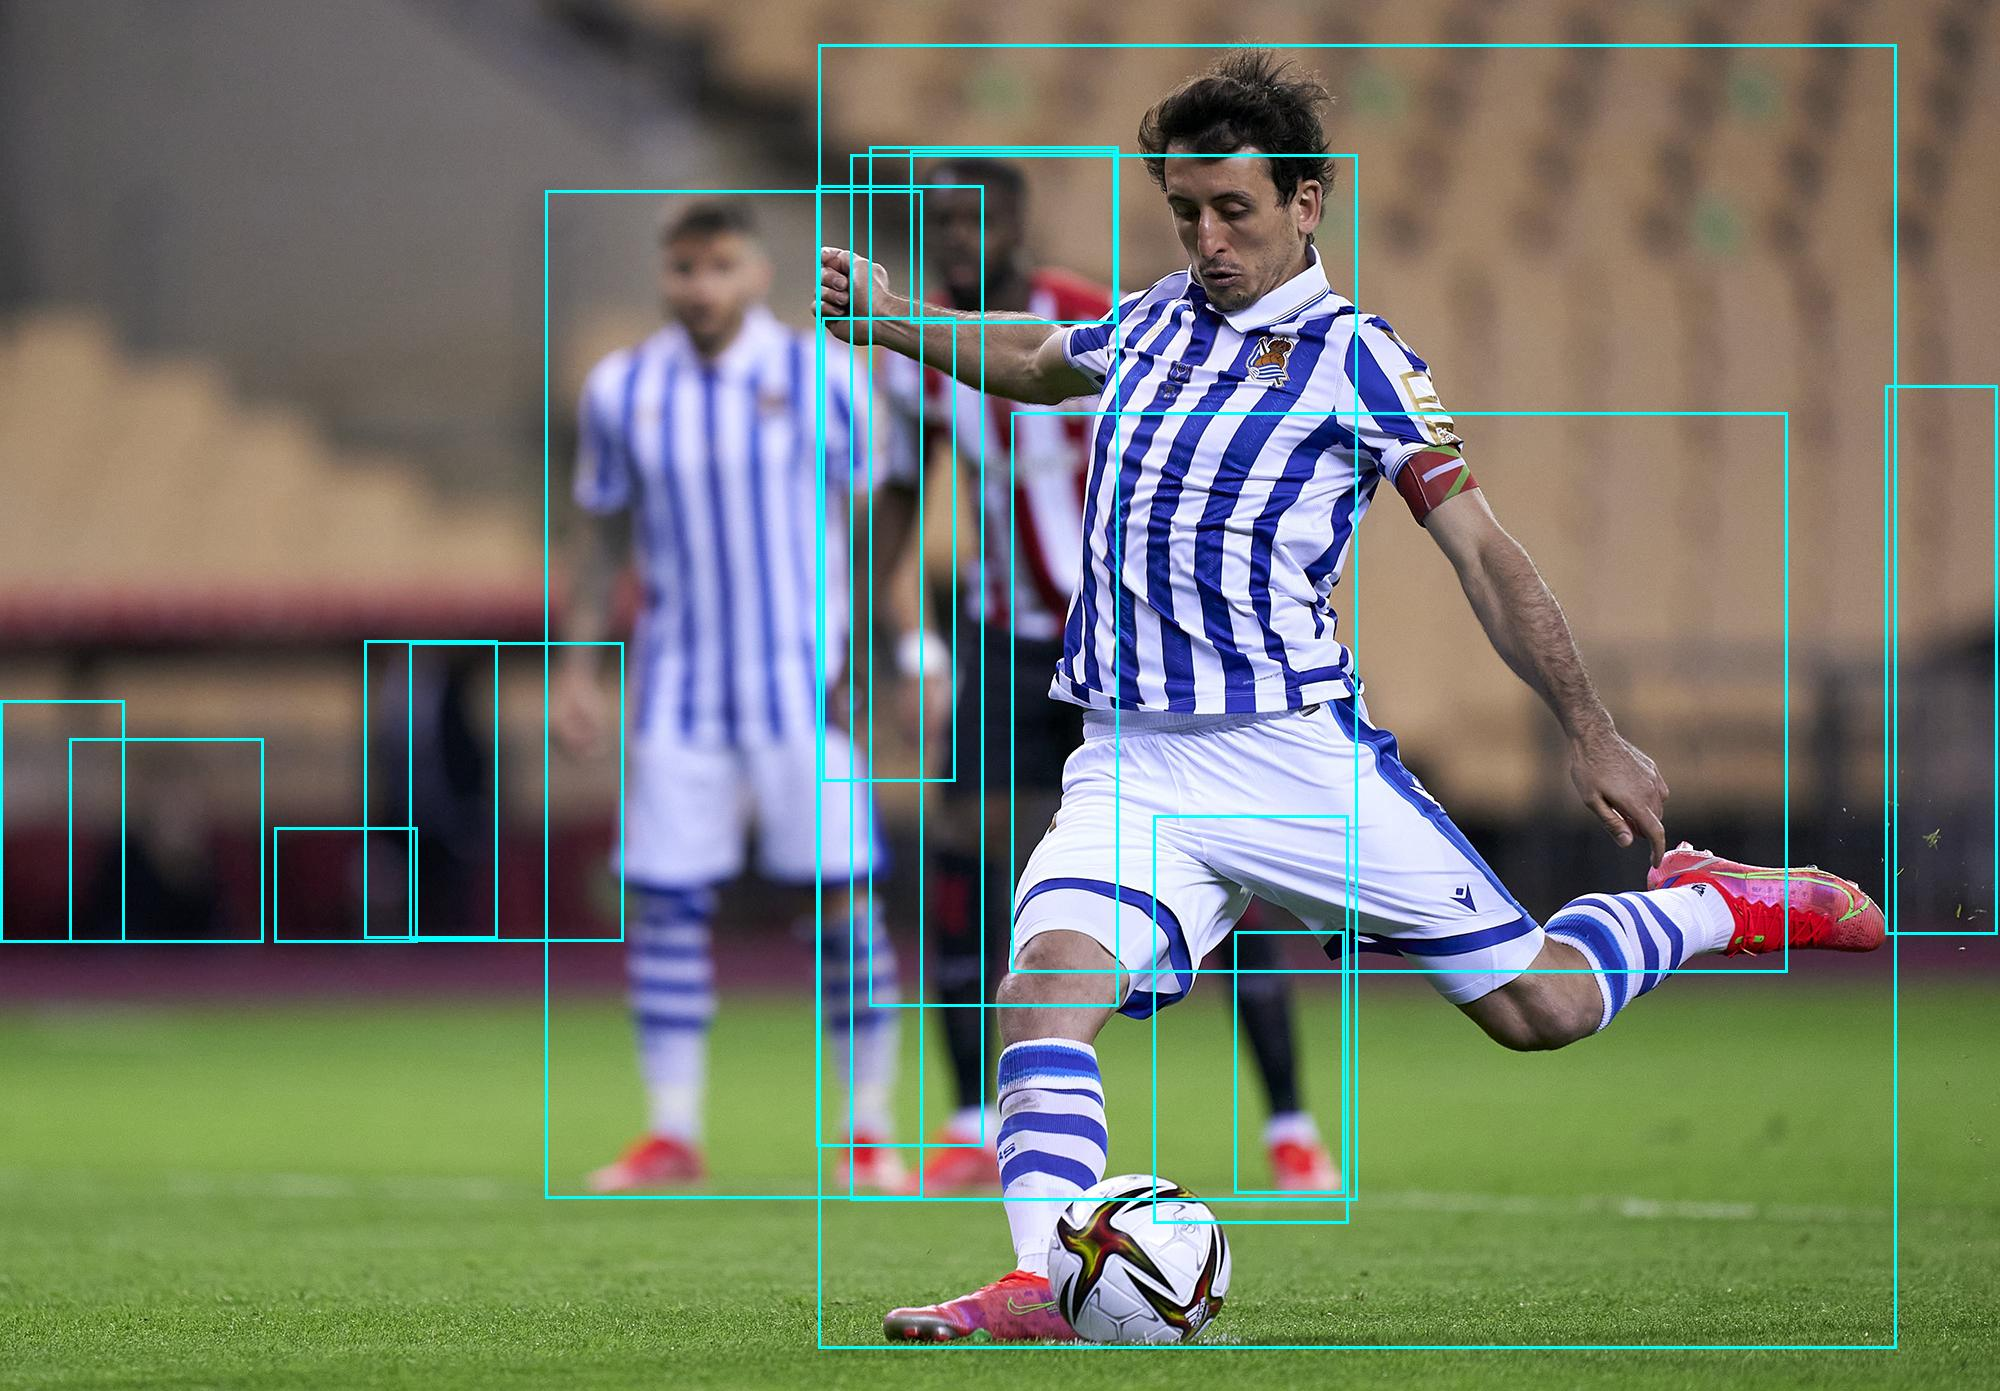
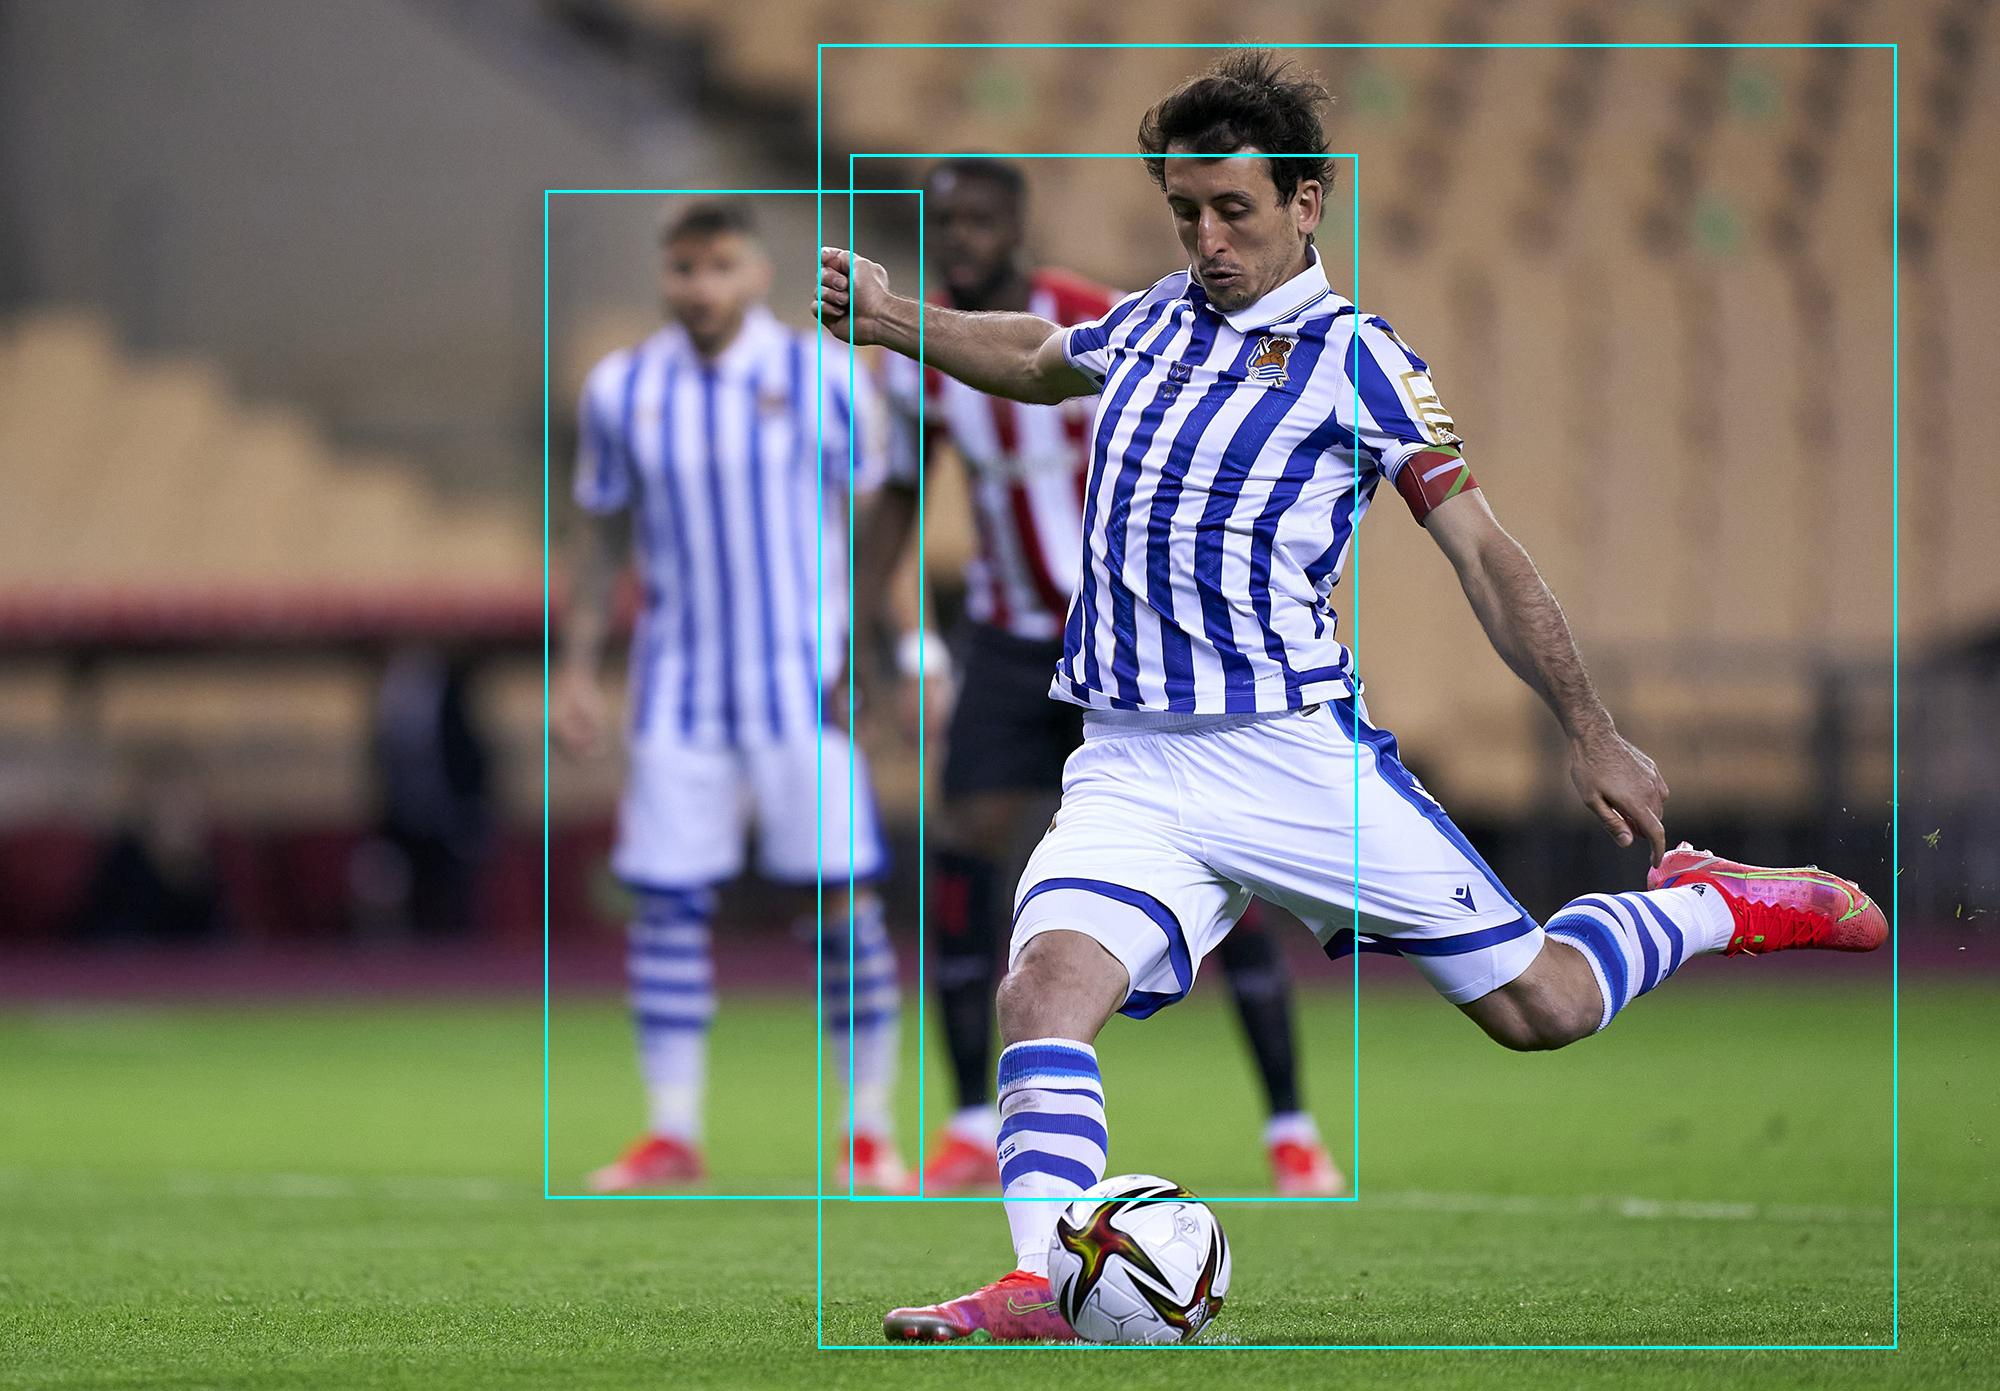
updated AI Vision to latest library

diff --git a/AZURE-AI-Vision/image-analysis.py b/AZURE-AI-Vision/image-analysis.py
@@ -9,81 +9,80 @@ import sys
 import time
 from matplotlib import pyplot as plt
 import numpy as np
+import asyncio  # Import asyncio for asynchronous execution
 
 # Import namespaces
-import azure.ai.vision as sdk
+from azure.ai.vision.imageanalysis import ImageAnalysisClient
+from azure.ai.vision.imageanalysis.models import VisualFeatures
+from azure.core.credentials import AzureKeyCredential
 
 
-def main():
+async def main():
     global cv_client
 
     try:
         # Get Configuration Settings
         #load_dotenv()
-        ai_endpoint = os.getenv('AIVISION_ENDPOINT')
-        ai_key = os.getenv('AIVISION_KEY')
+        ai_endpoint = os.getenv('AI_VISION_V4_END')
+        ai_key = os.getenv('AI_VISION_V4_KEY')
 
         # Get image
-        image_file = 'images/Oyarzabal2.jpg'
+        image_file = '/workspaces/AzureAI-Playground/AZURE-AI-Vision/images/Oyarzabal2.jpg'
         if len(sys.argv) > 1:
             image_file = sys.argv[1]
 
         # Authenticate Azure AI Vision client
-        cv_client = sdk.VisionServiceOptions(ai_endpoint, ai_key)
-        
+        cv_client = ImageAnalysisClient(endpoint=ai_endpoint, credential=AzureKeyCredential(ai_key))
+
         # Analyze image
-        AnalyzeImage(image_file, cv_client)
+        await AnalyzeImage(image_file, cv_client)
 
         # Generate thumbnail
-        BackgroundForeground(image_file, cv_client)
+        # BackgroundForeground(image_file, cv_client)  # Update this function similarly if needed
 
     except Exception as ex:
         print(ex)
 
 
-def AnalyzeImage(image_file, cv_client):
+async def AnalyzeImage(image_file, cv_client):
     print('\nAnalyzing', image_file)
 
+    # Read image data as bytes
+    with open(image_file, 'rb') as f:
+        image_data = f.read()
+
     # Specify features to be retrieved
-    analysis_options = sdk.ImageAnalysisOptions()
-
-    features = analysis_options.features = (
-        sdk.ImageAnalysisFeature.CAPTION |
-        sdk.ImageAnalysisFeature.DENSE_CAPTIONS |
-        sdk.ImageAnalysisFeature.TAGS |
-        sdk.ImageAnalysisFeature.OBJECTS |
-        sdk.ImageAnalysisFeature.PEOPLE
+    result = cv_client.analyze(
+        image_data=image_data,
+        visual_features=[
+            VisualFeatures.CAPTION,
+            VisualFeatures.DENSE_CAPTIONS,
+            VisualFeatures.TAGS,
+            VisualFeatures.OBJECTS,
+            VisualFeatures.PEOPLE
+        ],
+        language="en",
+        gender_neutral_caption=True  # Optional
     )
-        
 
-
-    # Get image analysis
-    # Get image analysis
-    image = sdk.VisionSource(image_file)
-
-    image_analyzer = sdk.ImageAnalyzer(cv_client, image, analysis_options)
-
-    result = image_analyzer.analyze()
-
-    if result.reason == sdk.ImageAnalysisResultReason.ANALYZED:
+    if result is not None:  # Check if the result is valid
         # Get image captions
         if result.caption is not None:
             print("\nCaption:")
-            print(" Caption: '{}' (confidence: {:.2f}%)".format(result.caption.content, result.caption.confidence * 100))
+            print(" Caption: '{}' (confidence: {:.2f}%)".format(result.caption.text, result.caption.confidence * 100))
 
         # Get image dense captions
         if result.dense_captions is not None:
             print("\nDense Captions:")
-            for caption in result.dense_captions:
-                print(" Caption: '{}' (confidence: {:.2f}%)".format(caption.content, caption.confidence * 100))
+            for caption in result.dense_captions['values']:
+                print(" Caption: '{}' (confidence: {:.2f}%)".format(caption['text'], caption['confidence'] * 100))
 
         # Get image tags
         if result.tags is not None:
             print("\nTags:")
-            for tag in result.tags:
-                print(" Tag: '{}' (confidence: {:.2f}%)".format(tag.name, tag.confidence * 100))
+            for tag in result.tags['values']:
+                print(" Tag: '{}' (confidence: {:.2f}%)".format(tag['name'], tag['confidence'] * 100))
 
-        # Get objects in the image
         # Get objects in the image
         if result.objects is not None:
             print("\nObjects in image:")
@@ -95,20 +94,26 @@ def AnalyzeImage(image_file, cv_client):
             draw = ImageDraw.Draw(image)
             color = 'cyan'
 
-            for detected_object in result.objects:
-                # Print object name
-                print(" {} (confidence: {:.2f}%)".format(detected_object.name, detected_object.confidence * 100))
-                
+            for detected_object in result.objects['values']:
+                # Print object details
+                bounding_box = detected_object['boundingBox']
+                tags = detected_object['tags']
+
+                if tags:
+                    tag = tags[0]  # Assuming the first tag is the most relevant
+                    print(" Object: '{}' (confidence: {:.2f}%)".format(tag['name'], tag['confidence'] * 100))
+
                 # Draw object bounding box
-                r = detected_object.bounding_box
-                bounding_box = ((r.x, r.y), (r.x + r.w, r.y + r.h))
-                draw.rectangle(bounding_box, outline=color, width=3)
-                plt.annotate(detected_object.name,(r.x, r.y), backgroundcolor=color)
+                box = ((bounding_box['x'], bounding_box['y']),
+                       (bounding_box['x'] + bounding_box['w'], bounding_box['y'] + bounding_box['h']))
+                draw.rectangle(box, outline=color, width=3)
+                if tags:
+                    plt.annotate(tag['name'], (bounding_box['x'], bounding_box['y']), backgroundcolor=color)
 
             # Save annotated image
             plt.imshow(image)
             plt.tight_layout(pad=0)
-            outputfile = 'objects.jpg'
+            outputfile = 'AZURE-AI-Vision/objects.jpg'
             fig.savefig(outputfile)
             print('  Results saved in', outputfile)
 
@@ -116,78 +121,40 @@ def AnalyzeImage(image_file, cv_client):
         if result.people is not None:
             print("\nPeople in image:")
 
-        # Prepare image for drawing
-        image = Image.open(image_file)
-        fig = plt.figure(figsize=(image.width/100, image.height/100))
-        plt.axis('off')
-        draw = ImageDraw.Draw(image)
-        color = 'cyan'
+            # Prepare image for drawing
+            image = Image.open(image_file)
+            fig = plt.figure(figsize=(image.width/100, image.height/100))
+            plt.axis('off')
+            draw = ImageDraw.Draw(image)
+            color = 'cyan'
 
-        for detected_people in result.people:
-            # Draw object bounding box
-            r = detected_people.bounding_box
-            bounding_box = ((r.x, r.y), (r.x + r.w, r.y + r.h))
-            draw.rectangle(bounding_box, outline=color, width=3)
+            for detected_person in result.people['values']:
+                bounding_box = detected_person['boundingBox']
+                confidence = detected_person['confidence']
 
-            # Return the confidence of the person detected
-            #print(" {} (confidence: {:.2f}%)".format(detected_people.bounding_box, detected_people.confidence * 100))
-            
-        # Save annotated image
-        plt.imshow(image)
-        plt.tight_layout(pad=0)
-        outputfile = 'people.jpg'
-        fig.savefig(outputfile)
-        print('  Results saved in', outputfile)
+                if confidence * 100 > 75:  # Only show persons with confidence above 75%
+                    print(" Person detected with confidence: {:.2f}%".format(confidence * 100))
+                    print(" Bounding Box: x={}, y={}, w={}, h={}".format(
+                        bounding_box['x'], bounding_box['y'], bounding_box['w'], bounding_box['h']))
 
-    else:
-        error_details = sdk.ImageAnalysisErrorDetails.from_result(result)
-        print(" Analysis failed.")
-        print("   Error reason: {}".format(error_details.reason))
-        print("   Error code: {}".format(error_details.error_code))
-        print("   Error message: {}".format(error_details.message))
+                    # Draw bounding box
+                    box = ((bounding_box['x'], bounding_box['y']),
+                           (bounding_box['x'] + bounding_box['w'], bounding_box['y'] + bounding_box['h']))
+                    draw.rectangle(box, outline=color, width=3)
 
-
-def BackgroundForeground(image_file, cv_client):
-    print('\n')
-    
-    # Remove the background from the image or generate a foreground matte
-    # Remove the background from the image or generate a foreground matte
-    print('\nRemove the background from the image or generate a foreground matte')
-
-    image = sdk.VisionSource(image_file)
-
-    analysis_options = sdk.ImageAnalysisOptions()
-
-    # Set the image analysis segmentation mode to background or foreground
-    analysis_options.segmentation_mode = sdk.ImageSegmentationMode.BACKGROUND_REMOVAL
-    #analysis_options.segmentation_mode = sdk.ImageSegmentationMode.FOREGROUND_MATTING
-        
-    image_analyzer = sdk.ImageAnalyzer(cv_client, image, analysis_options)
-
-    result = image_analyzer.analyze()
-
-    if result.reason == sdk.ImageAnalysisResultReason.ANALYZED:
-
-        image_buffer = result.segmentation_result.image_buffer
-        print(" Segmentation result:")
-        print("   Output image buffer size (bytes) = {}".format(len(image_buffer)))
-        print("   Output image height = {}".format(result.segmentation_result.image_height))
-        print("   Output image width = {}".format(result.segmentation_result.image_width))
-
-        output_image_file = "newimage.jpg"
-        with open(output_image_file, 'wb') as binary_file:
-            binary_file.write(image_buffer)
-        print("   File {} written to disk".format(output_image_file))
+            # Save annotated image
+            plt.imshow(image)
+            plt.tight_layout(pad=0)
+            outputfile = 'AZURE-AI-Vision/people.jpg'
+            fig.savefig(outputfile)
+            print('  Results saved in', outputfile)
 
     else:
-
-        error_details = sdk.ImageAnalysisErrorDetails.from_result(result)
+        error_details = "ErrorDetails"  # Replace with the correct class or method to extract error details
         print(" Analysis failed.")
-        print("   Error reason: {}".format(error_details.reason))
-        print("   Error code: {}".format(error_details.error_code))
-        print("   Error message: {}".format(error_details.message))
-        print(" Did you set the computer vision endpoint and key?")
+        print("   Error details could not be retrieved.")
+
 
 
 if __name__ == "__main__":
-    main()
+    asyncio.run(main())
